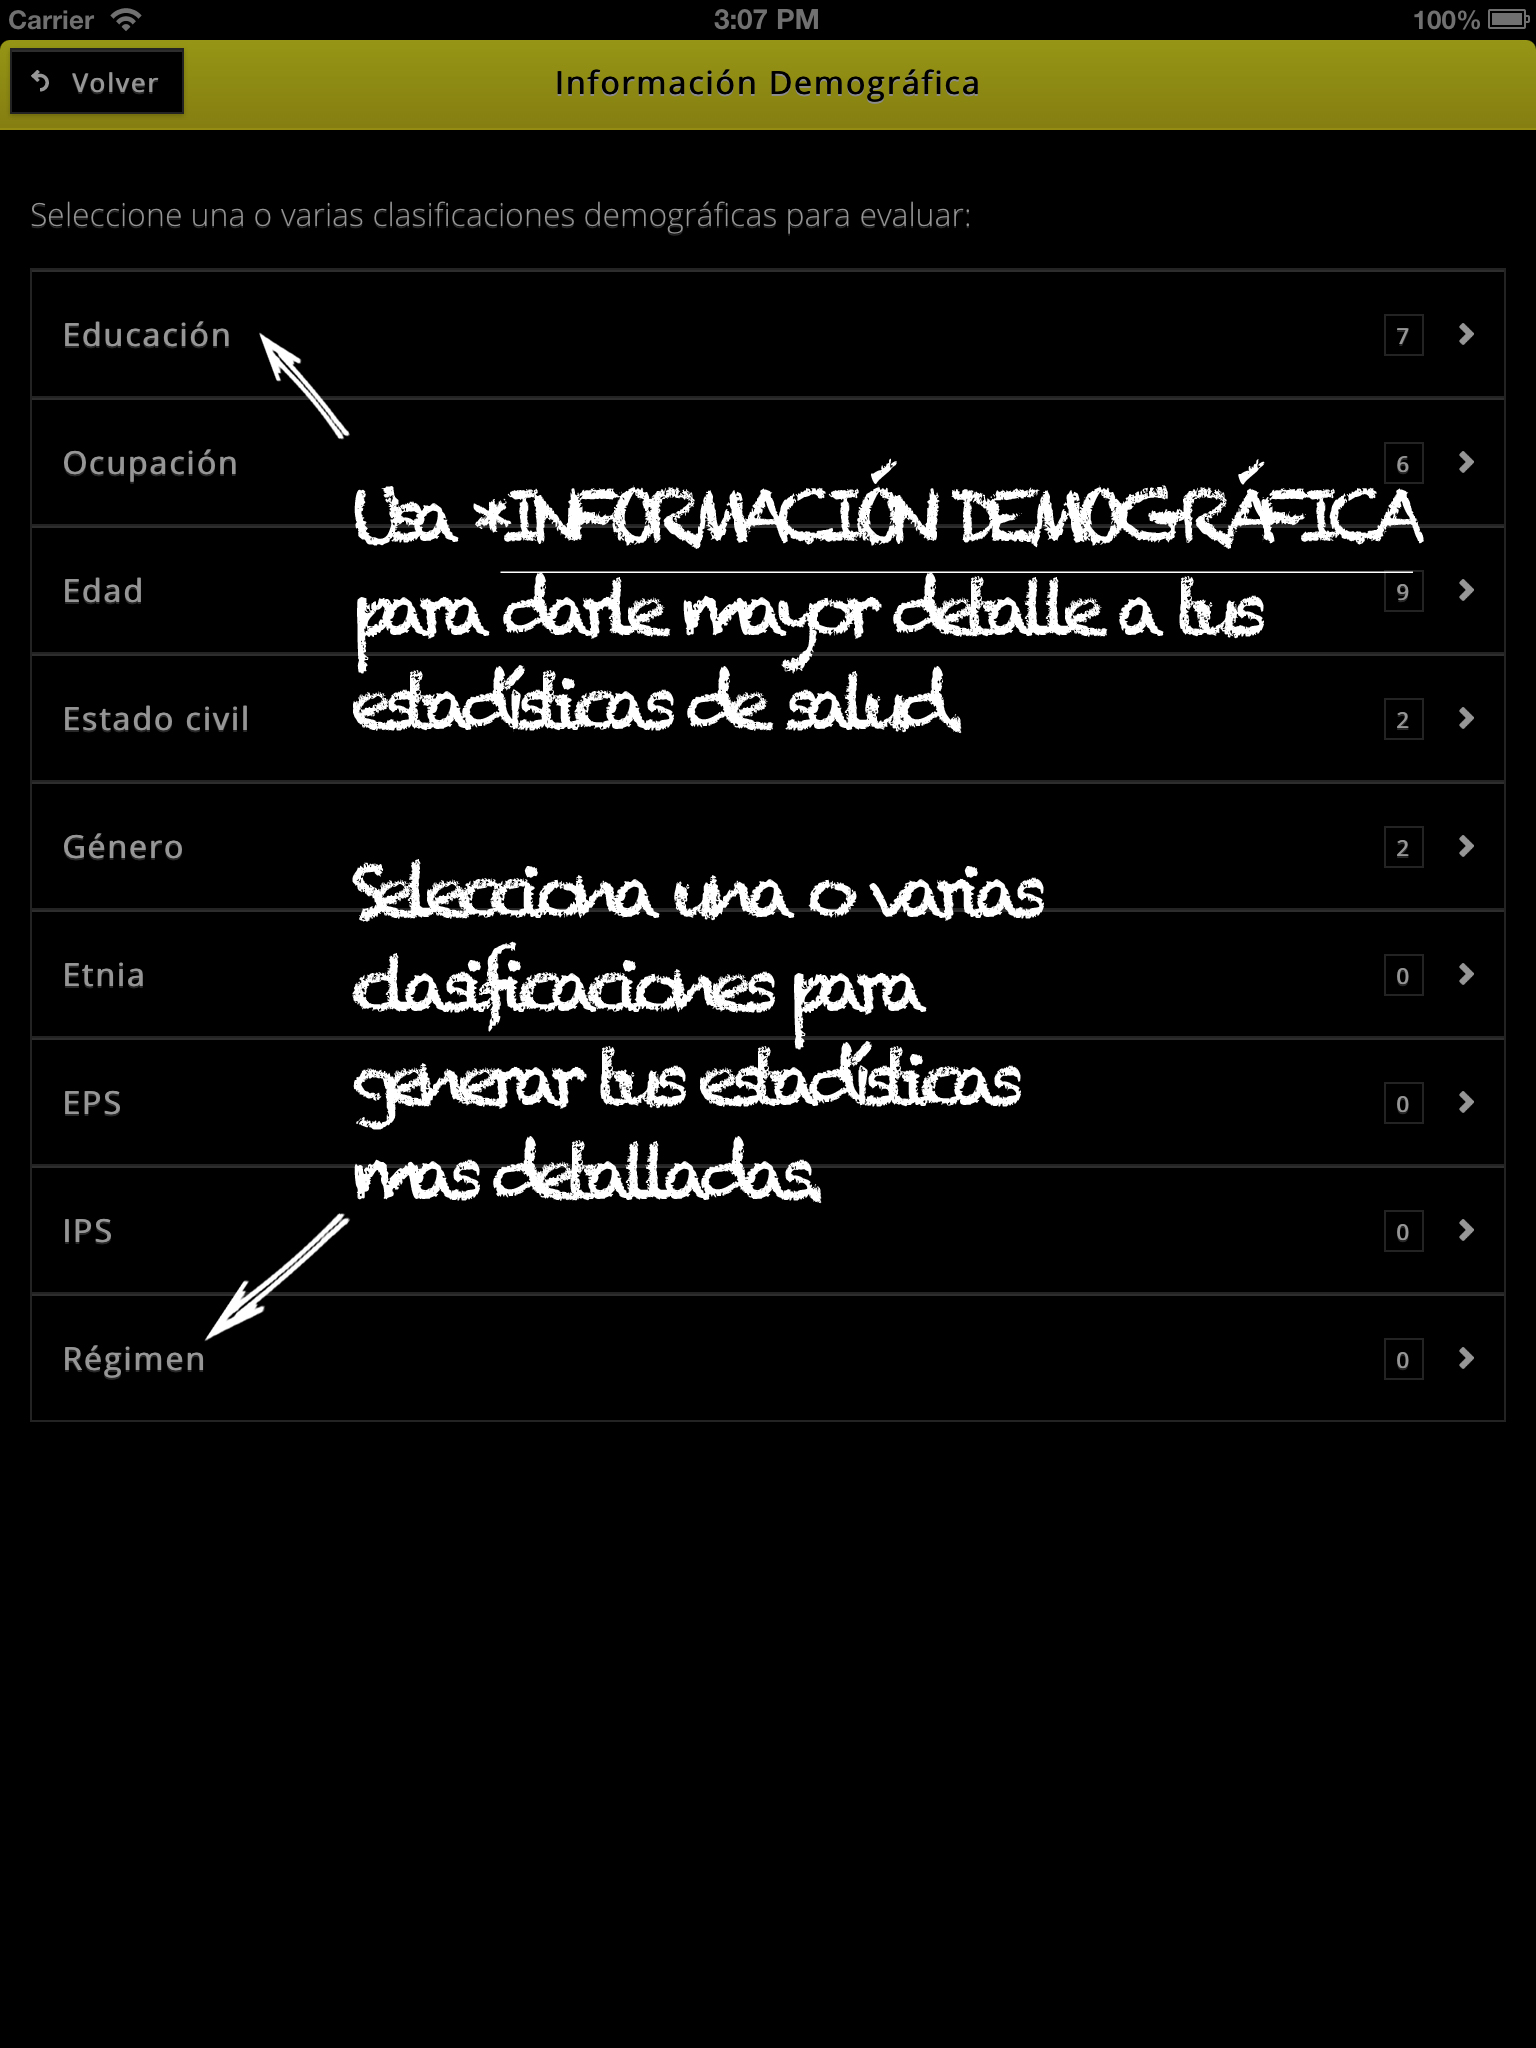
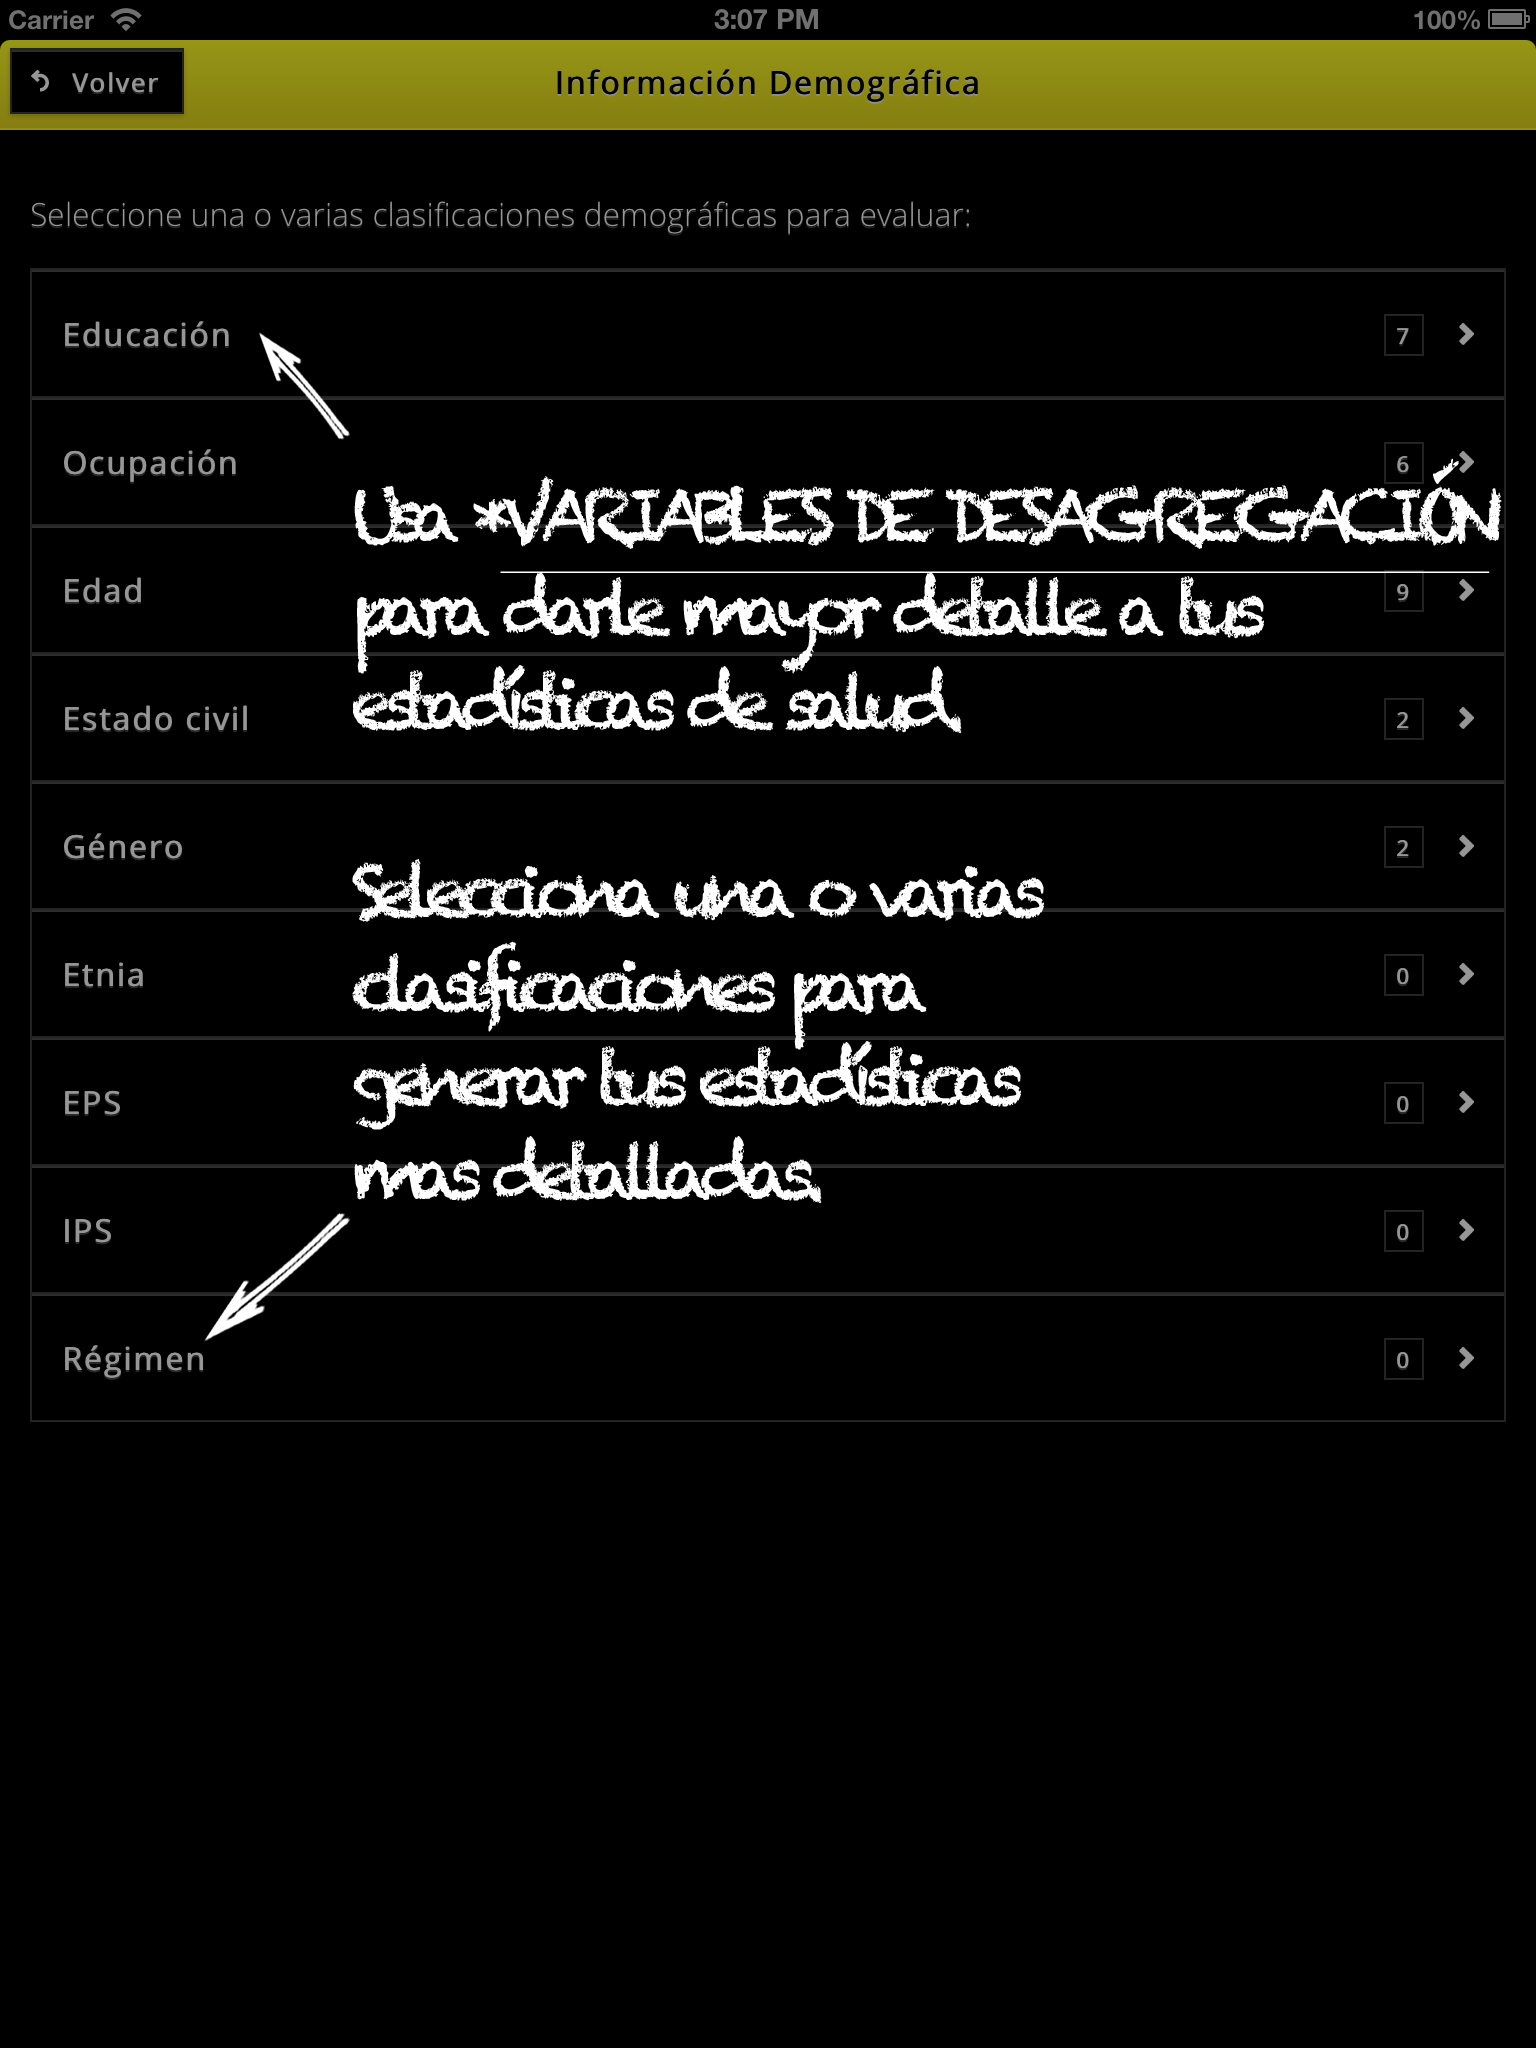
Fixed Manual > Textos Variables de desagregación

Changed region(s): [[0.3125, 0.2188, 1.0, 0.2812]]

diff --git a/www/index.html b/www/index.html
@@ -227,10 +227,10 @@
         <div data-role="page" id="demografia"> 
             <div data-role="header" data-position="fixed" data-theme="d">
                 <a href="#home" class="ui-btn-left" data-icon="back">Volver</a>
-                <h1>Información Demográfica</h1>        
+                <h1>Variables de desagregación</h1>        
             </div>
             <div data-role="content">
-                <p>Seleccione una o varias clasificaciones demográficas para evaluar:</p>
+                <p>Seleccione una o mas variables de desagregación para evaluar:</p>
                 <ul id="demList" data-role="listview" data-inset="true">           
                     <li>
                         <a id="educacionBtn" href="#educacion" data-rel="dialog"><h1>Educación</h1><span id="eduCount" class="ui-li-count"></span></a>
